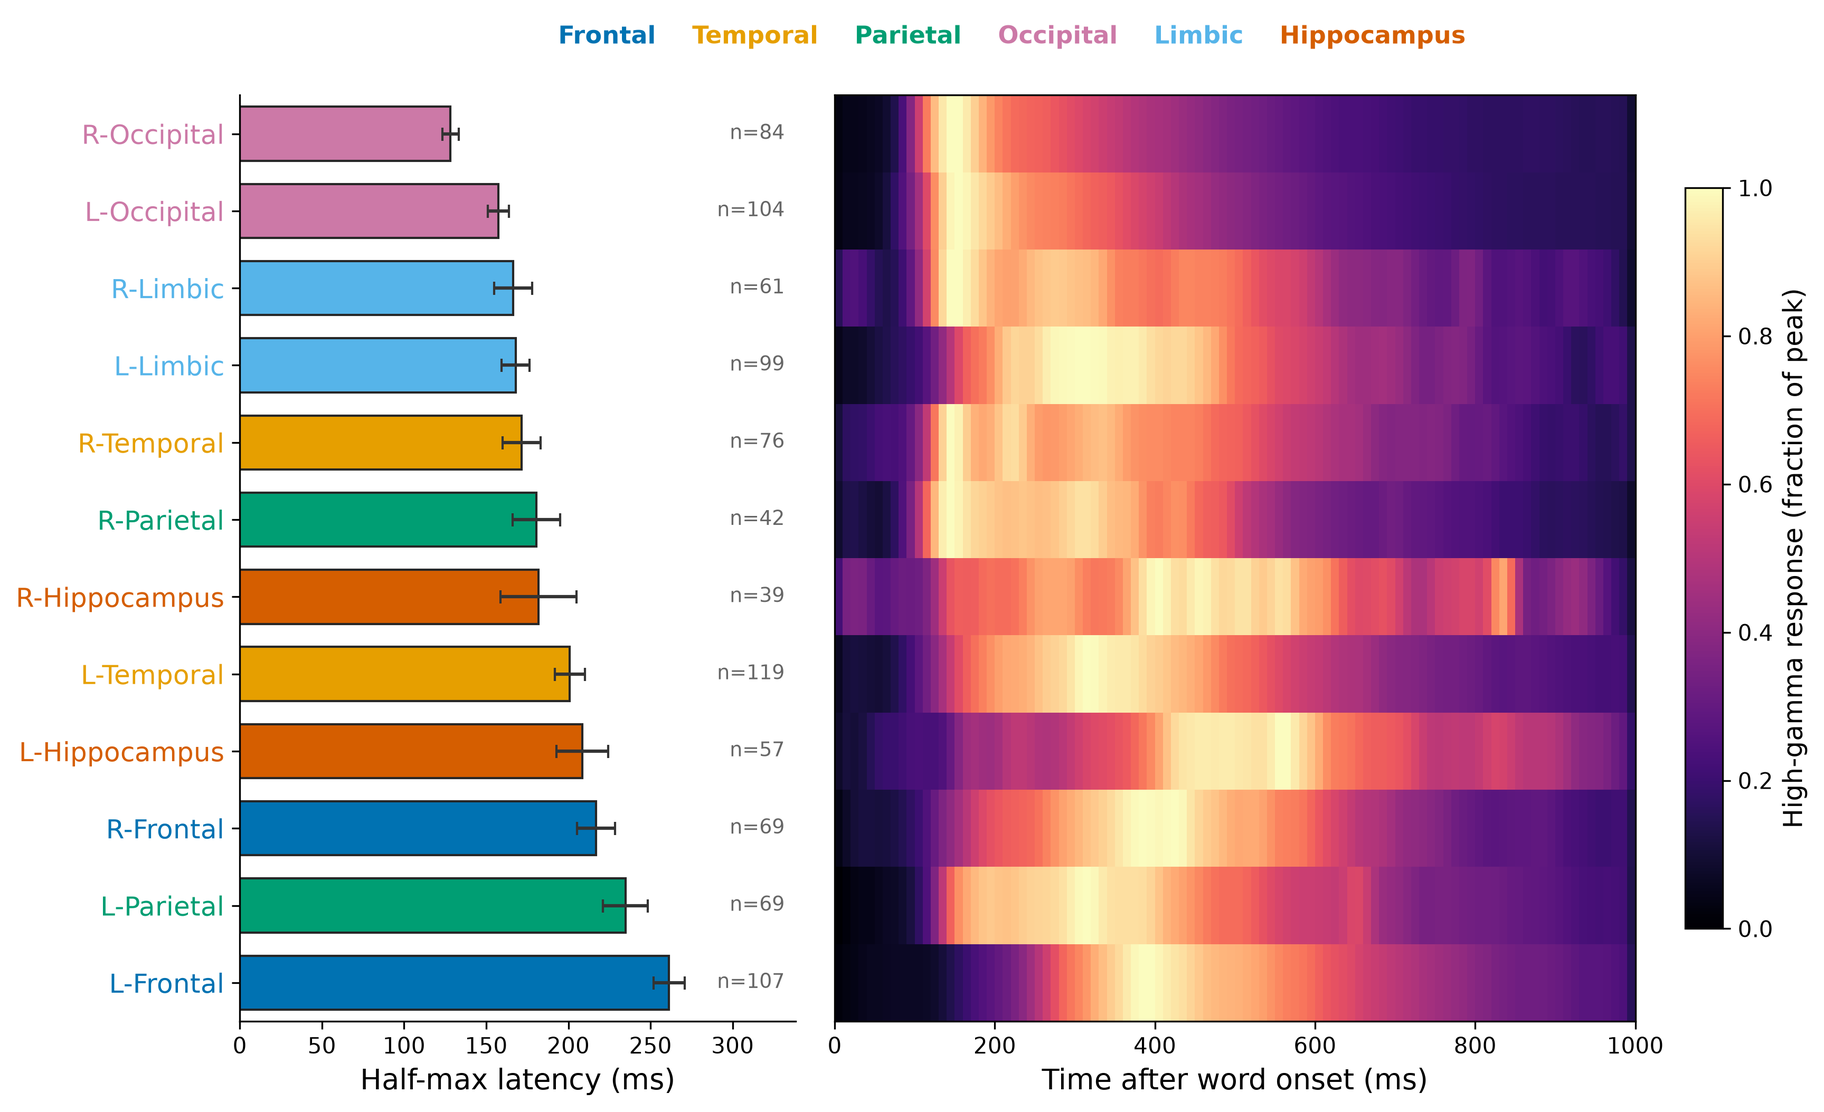
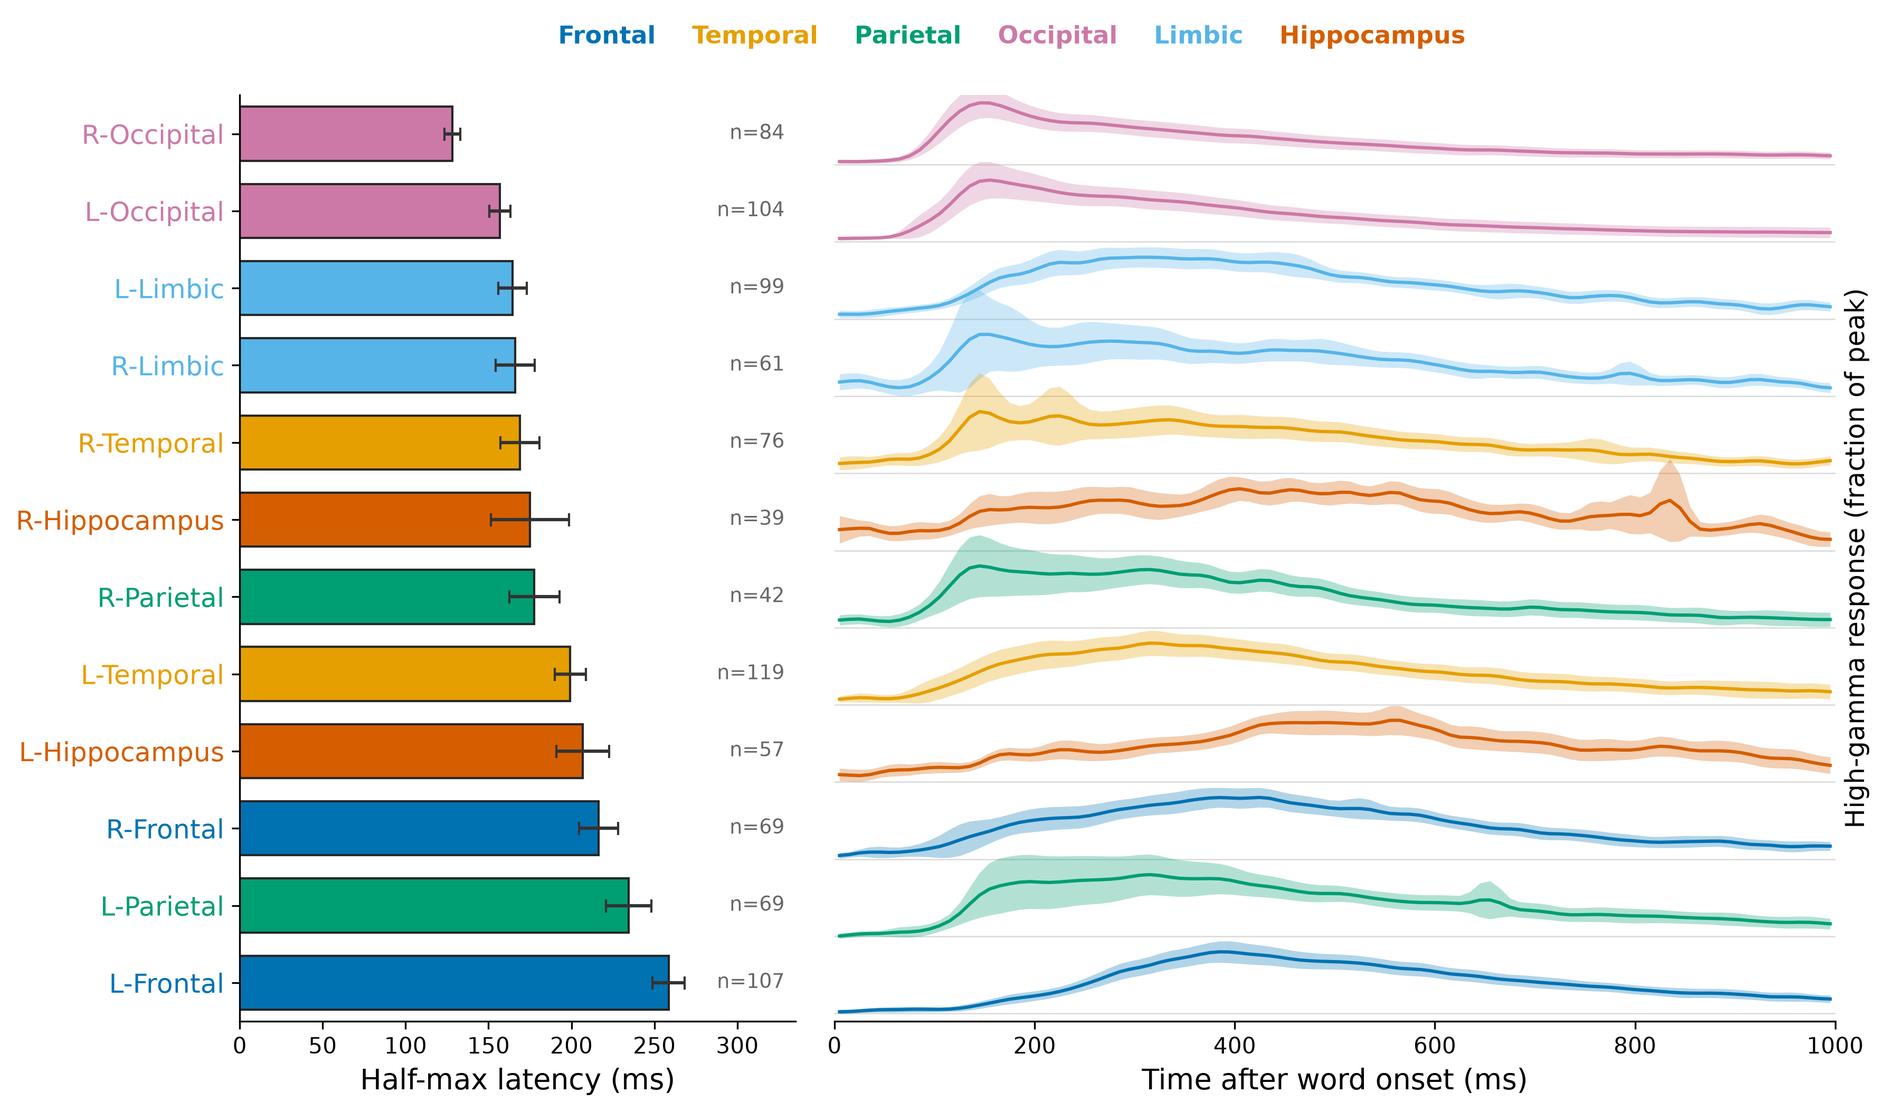
Plot layout changes

diff --git a/plot_spectrum.py b/plot_spectrum.py
@@ -2,8 +2,12 @@
 
 Per electrode the Cohen's d of multitaper power in 10 log-spaced bins (5-100 Hz,
 48-52 / 58-62 Hz left out; compute.py); sessions averaged per electrode, electrodes
-per subject and ROI; one-sample t vs 0 across subjects per cell, BH-FDR over all
-ROI x bin cells (fc.bin_stats). -> figures/burke_roi_power/power_spectrum_word_on_rois.png
+per subject and ROI; one-sample t vs 0 across subjects per cell. Significance by
+threshold-free cluster enhancement along frequency (TFCE, E=0.5, H=2) with
+sign-flip permutations of whole subjects and max-statistic family-wise correction
+over all ROI x bin cells (as Rao et al. 2025 / Ezzyat et al. 2017; rows are not
+adjacent). Outlines mark runs of cells with p_FWE < .05.
+-> figures/burke_roi_power/power_spectrum_word_on_rois.png
 
     python plot_spectrum.py [--simulation-tag TAG]
 """
@@ -35,13 +39,81 @@ def spectrum_table(save_root: str, lobe_of: dict, n_sessions=None) -> pd.DataFra
     return pd.DataFrame(rows, columns=["sub", "label", "roi", "fine", "bin", "d"])
 
 
-def bin_t(d: pd.DataFrame, col: str, min_electrodes: int) -> pd.DataFrame:
-    """sessions -> electrode, electrodes -> subject x `col` region; t per region x bin (fc.bin_stats)."""
+def subject_table(d: pd.DataFrame, col: str, min_electrodes: int) -> pd.DataFrame:
+    """sessions -> electrode, electrodes -> subject x `col` region x bin mean d."""
     x = d.dropna(subset=[col]).groupby(["sub", "label", col, "bin"], as_index=False)["d"].mean()
     g = x.groupby(["sub", col, "bin"]).agg(d=("d", "mean"), n=("label", "nunique")).reset_index()
     g = g[g["n"] >= min_electrodes].rename(columns={col: "roi"})
     g["freq_hz"] = CENTRES[g["bin"]]
-    return fc.bin_stats(g, "freq_hz", "d")
+    return g
+
+
+def bin_t(d: pd.DataFrame, col: str, min_electrodes: int) -> pd.DataFrame:
+    """t per region x bin, BH-FDR over all cells (fc.bin_stats)."""
+    return fc.bin_stats(subject_table(d, col, min_electrodes), "freq_hz", "d")
+
+
+def nan_t(Y: np.ndarray) -> np.ndarray:
+    """One-sample t over subjects (axis 0), ignoring NaN; NaN where < MIN_SUBJECTS_ROI subjects."""
+    n = np.isfinite(Y).sum(0)
+    with np.errstate(invalid="ignore", divide="ignore"):
+        t = np.nanmean(Y, 0) / (np.nanstd(Y, 0, ddof=1) / np.sqrt(n))
+    return np.where(n >= fc.MIN_SUBJECTS_ROI, t, np.nan)
+
+
+def tfce_rows(T: np.ndarray, E: float = 0.5, H: float = 2.0, dh: float = 0.1) -> np.ndarray:
+    """TFCE along the last axis (frequency) of each row, positive and negative separately:
+    sum over thresholds h of extent(h)^E * h^H * dh, extent = contiguous run length."""
+    out = np.zeros_like(T)
+    for sign in (1, -1):
+        X = np.nan_to_num(sign * T, nan=0.0)
+        for h in np.arange(dh, X.max() + dh, dh) if X.max() > 0 else []:
+            above = X >= h
+            for r in range(X.shape[0]):
+                j = 0
+                while j < X.shape[1]:
+                    if above[r, j]:
+                        k = j
+                        while k < X.shape[1] and above[r, k]:
+                            k += 1
+                        out[r, j:k] += sign * (k - j) ** E * h ** H * dh
+                        j = k
+                    else:
+                        j += 1
+    return out
+
+
+def tfce_test(g: pd.DataFrame, rows: list, n_perm: int = 1000, seed: int = 0):
+    """(t map, TFCE map, family-wise p map) over rows x bins; sign-flip permutation of whole
+    subjects (each subject's map x +1/-1), max |TFCE| per permutation."""
+    subs = sorted(g["sub"].unique())
+    Y = np.full((len(subs), len(rows), len(CENTRES)), np.nan)
+    si, ri = {s: i for i, s in enumerate(subs)}, {r: i for i, r in enumerate(rows)}
+    for s, r, b, v in g[g["roi"].isin(ri)][["sub", "roi", "bin", "d"]].itertuples(index=False):
+        Y[si[s], ri[r], b] = v
+    T = nan_t(Y)
+    obs = tfce_rows(T)
+    rng = np.random.default_rng(seed)
+    null = np.array([np.nanmax(np.abs(tfce_rows(nan_t(Y * rng.choice([-1.0, 1.0], len(subs))[:, None, None]))))
+                     for _ in range(n_perm)])
+    p = (1 + (null[None, None, :] >= np.abs(obs)[..., None]).sum(-1)) / (n_perm + 1)
+    return T, obs, np.where(np.isfinite(T), p, np.nan)
+
+
+def outline(ax, sig: np.ndarray) -> None:
+    """Rectangle around each row's run of contiguous significant cells."""
+    from matplotlib.patches import Rectangle
+    for i, row in enumerate(sig):
+        j = 0
+        while j < len(row):
+            if row[j]:
+                k = j
+                while k < len(row) and row[k]:
+                    k += 1
+                ax.add_patch(Rectangle((j - 0.5, i - 0.5), k - j, 1, fill=False, lw=2.2, ec="black"))
+                j = k
+            else:
+                j += 1
 
 
 def t_label() -> str:
@@ -51,20 +123,22 @@ def t_label() -> str:
 
 def main() -> None:
     args, save_root = fc.plot_args(__doc__, join("figures", "burke_roi_power"))
-    st = bin_t(spectrum_table(save_root, fc.load_burke_maps(), args.n_sessions), "roi", args.min_electrodes)
+    g = subject_table(spectrum_table(save_root, fc.load_burke_maps(), args.n_sessions), "roi", args.min_electrodes)
+    rows = [f"{h}-{lobe}" for lobe in fc.LOBES for h in "LR"]   # left / right of each region together
+    T, tfce, p = tfce_test(g, rows)
     os.makedirs(args.out_dir, exist_ok=True)
     stem = join(args.out_dir, f"power_spectrum_{BEH}_rois")
-    st.to_csv(f"{stem}_stats.csv", index=False)
-    T = st.pivot(index="roi", columns="freq_hz", values="t").reindex(fc.ROI_ORDER)
-    Q = st.pivot(index="roi", columns="freq_hz", values="q").reindex(fc.ROI_ORDER)
-    v = float(np.nanmax(np.abs(T.to_numpy()))) or 1.0
+    st = fc.bin_stats(g, "freq_hz", "d")
+    tf = pd.DataFrame([(r, CENTRES[b], tfce[i, b], p[i, b]) for i, r in enumerate(rows) for b in range(len(CENTRES))],
+                      columns=["roi", "freq_hz", "tfce", "p_fwe_tfce"])
+    st.merge(tf, on=["roi", "freq_hz"], how="left").to_csv(f"{stem}_stats.csv", index=False)
+    print(f"[tfce] {int(np.nansum(p < 0.05))} of {int(np.isfinite(p).sum())} cells p_FWE < .05")
+    v = float(np.nanmax(np.abs(T))) or 1.0
     fig, ax = plt.subplots(figsize=(11, 6.5))
-    im = ax.imshow(T.to_numpy(), cmap="RdBu_r", vmin=-v, vmax=v, aspect="auto")
-    for (i, j), q in np.ndenumerate(Q.to_numpy()):
-        if fc.stars(q):
-            ax.text(j, i, fc.stars(q), ha="center", va="center", fontsize=12)
-    ax.set_xticks(range(len(T.columns)), [f"{x:.0f}" for x in T.columns], fontsize=13)
-    ax.set_yticks(range(len(T.index)), [fc.pretty_roi(x) for x in T.index], fontsize=13)
+    im = ax.imshow(T, cmap="RdBu_r", vmin=-v, vmax=v, aspect="auto")
+    outline(ax, p < 0.05)
+    ax.set_xticks(range(len(CENTRES)), [f"{x:.0f}" for x in CENTRES], fontsize=13)
+    ax.set_yticks(range(len(rows)), [fc.pretty_roi(x) for x in rows], fontsize=13)
     ax.set_xlabel("Frequency (Hz)", fontsize=14)
     fig.colorbar(im, ax=ax).set_label(t_label(), fontsize=14)
     fig.tight_layout()

diff --git a/plot_case_studies.py b/plot_case_studies.py
@@ -1,11 +1,15 @@
-"""plot_case_studies.py -- t of word on vs off power vs frequency for chosen anatomical regions.
+"""plot_case_studies.py -- t of word on vs off power vs frequency for anatomical
+subregions, hemispheres pooled, all in one plot.
 
-One panel per region (hemispheres as separate lines), from the same per-electrode
-spectrum d as plot_spectrum.py; BH-FDR over all region x bin cells of the figure.
-Default regions: fusiform gyrus and lateral occipital cortex.
+Default: the 4 occipital subregions (Burke occipital ROI) with the most subjects
+(hemispheres pooled, >= MIN_SUBJECTS_ROI). Per-electrode spectrum d as
+plot_spectrum.py; a subject's value is the mean over its electrodes in the region,
+both hemispheres. Significance: TFCE along frequency with sign-flip permutations
+and max-statistic correction over all region x bin cells (plot_spectrum.tfce_test);
+filled markers p_FWE < .05.
 -> figures/burke_roi_power/power_spectrum_word_on_<name>.png
 
-    python plot_case_studies.py [--regions "fusiform gyrus" "lateral occipital cortex"] [--name occipital]
+    python plot_case_studies.py [--regions "fusiform gyrus" ...] [--name occipital]
 """
 from __future__ import annotations
 
@@ -13,48 +17,51 @@ import os
 from os.path import join
 
 import matplotlib.pyplot as plt
+import pandas as pd
 
 import fc_comparison_functions as fc
-from plot_spectrum import BEH, CENTRES, bin_t, spectrum_table, t_label
+from plot_spectrum import BEH, CENTRES, spectrum_table, subject_table, t_label, tfce_test
 
 
 def main() -> None:
     args, save_root = fc.plot_args(__doc__, join("figures", "burke_roi_power"), **{
-        "--regions": dict(nargs="+", default=["fusiform gyrus", "lateral occipital cortex"],
-                          help="anatomical labels without hemisphere"),
+        "--regions": dict(nargs="+", default=None,
+                          help="anatomical labels without hemisphere (default: top 4 occipital)"),
         "--name": dict(default="occipital", help="figure name suffix")})
-    d = spectrum_table(save_root, fc.load_burke_maps(), args.n_sessions)
-    split = d["fine"].str.split(" ", n=1)
-    d["region"] = [f"{r[1]}|{r[0]}" if isinstance(r, list) and r[1] in args.regions else None for r in split]
-    st = bin_t(d, "region", args.min_electrodes)
+    d = spectrum_table(save_root, fc.load_burke_maps(), args.n_sessions).dropna(subset=["fine"])
+    d["region"] = d["fine"].str.split(" ", n=1).str[1]          # hemispheres pooled
+    if args.regions is None:
+        occ = d[d["roi"].astype(str).str.endswith("occipital")]
+        n = occ.groupby("region")["sub"].nunique().sort_values(ascending=False)
+        args.regions = list(n[n >= fc.MIN_SUBJECTS_ROI].index[:4])
+    d = d[d["region"].isin(args.regions)]
+    g = subject_table(d, "region", args.min_electrodes)
+    T, _, p = tfce_test(g, args.regions)
+    n_sub = g.groupby("roi")["sub"].nunique()
     os.makedirs(args.out_dir, exist_ok=True)
     stem = join(args.out_dir, f"power_spectrum_{BEH}_{args.name}")
-    st.to_csv(f"{stem}_stats.csv", index=False)
-    panels = [r for r in args.regions if st[st["roi"].str.startswith(r + "|")]["t"].notna().any()]
-    fig, axes = plt.subplots(1, len(panels), figsize=(6.5 * len(panels), 5), sharey=True, squeeze=False)
-    for ax, panel in zip(axes[0], panels):
-        for name, s in st[st["roi"].str.startswith(panel + "|")].groupby("roi"):
-            s = s.sort_values("freq_hz")
-            line, = ax.plot(s["freq_hz"], s["t"], marker="o", lw=2,
-                            label=f"{name.split('|')[1]} (n={int(s['n'].max())})")
-            for x, y, q in zip(s["freq_hz"], s["t"], s["q"]):
-                if fc.stars(q):
-                    ax.annotate(fc.stars(q), (x, y), textcoords="offset points", xytext=(0, 6),
-                                ha="center", fontsize=13, color=line.get_color())
-        ax.axhline(0, color="0.6", lw=0.8)
-        ax.set_xscale("log")
-        ax.set_xticks(CENTRES, [f"{x:.0f}" for x in CENTRES], fontsize=12)
-        ax.minorticks_off()
-        ax.tick_params(axis="y", labelsize=13)
-        ax.set_title(panel[:1].upper() + panel[1:], fontsize=15)
-        ax.set_xlabel("Frequency (Hz)", fontsize=14)
-        ax.legend(fontsize=12, frameon=False)
-    axes[0, 0].set_ylabel(t_label(), fontsize=14)
+    pd.DataFrame([(r, CENTRES[b], T[i, b], p[i, b]) for i, r in enumerate(args.regions) for b in range(len(CENTRES))],
+                 columns=["region", "freq_hz", "t", "p_fwe_tfce"]).to_csv(f"{stem}_stats.csv", index=False)
+    fig, ax = plt.subplots(figsize=(7.5, 5))
+    for i, r in enumerate(args.regions):
+        line, = ax.plot(CENTRES, T[i], lw=2, label=f"{r[:1].upper() + r[1:]} (n={n_sub.get(r, 0)})")
+        sig = p[i] < 0.05
+        ax.plot(CENTRES[~sig], T[i][~sig], "o", ms=6, mfc="white", mec=line.get_color(), mew=1.5)
+        ax.plot(CENTRES[sig], T[i][sig], "o", ms=7, color=line.get_color())
+    ax.axhline(0, color="0.6", lw=0.8)
+    ax.set_xscale("log")
+    ax.set_xticks(CENTRES, [f"{x:.0f}" for x in CENTRES], fontsize=12)
+    ax.minorticks_off()
+    ax.tick_params(axis="y", labelsize=12)
+    ax.set_xlabel("Frequency (Hz)", fontsize=14)
+    ax.set_ylabel(t_label(), fontsize=14)
+    ax.spines[["top", "right"]].set_visible(False)
+    ax.legend(fontsize=11, frameon=False, title="filled: p$_{FWE}$ < .05 (TFCE)", title_fontsize=10)
     fig.tight_layout()
     fig.savefig(f"{stem}.png", dpi=300)
     fig.savefig(f"{stem}.pdf")
     plt.close(fig)
-    print(f"[saved] {stem}.png / .pdf")
+    print(f"[saved] {stem}.png / .pdf  regions: {args.regions}")
 
 
 if __name__ == "__main__":

diff --git a/plot_latency.py b/plot_latency.py
@@ -10,8 +10,8 @@ Reads compute.py's high-gamma power pickles (per-trial sub-band Hilbert envelope
 
 Sessions are averaged per electrode, each subject contributes its median latency
 per region, and regions are compared by the across-subject mean +/- 95% CI (regions
-with >= MIN_SUBJECTS_ROI subjects). Figure: regions ordered by latency, and each
-region's group-mean response (scaled to its peak) over time.
+with >= MIN_SUBJECTS_ROI subjects). Figure: regions ordered by latency (bars), and each
+region's group-mean response over time (curves, each scaled to its peak).
 
     python plot_latency.py [--simulation-tag TAG]
 """
@@ -23,7 +23,7 @@ from os.path import join
 import matplotlib.pyplot as plt
 import numpy as np
 import pandas as pd
-from scipy.stats import ttest_ind
+from scipy.stats import t as tdist, ttest_ind
 from statsmodels.stats.multitest import multipletests
 from tqdm.auto import tqdm
 
@@ -46,7 +46,8 @@ def electrode_rows(p: dict, lobe_of: dict) -> list[tuple]:
     curve = np.nanmean(np.asarray(p["env_hi"], float), axis=0)                 # (C, T)
     curve -= np.nanmean(np.asarray(p["env_lo"], float), axis=(0, 2))[:, None]  # minus word-off mean
     k = max(1, int(round(SMOOTH_MS / step)))
-    curve = np.apply_along_axis(lambda c: np.convolve(c, np.ones(k) / k, mode="same"), 1, curve)
+    pad = np.pad(curve, ((0, 0), (k // 2, k - 1 - k // 2)), mode="edge")   # edge-padded: no dip at the ends
+    curve = np.apply_along_axis(lambda c: np.convolve(c, np.ones(k) / k, mode="valid"), 1, pad)
     times = p["env_hi_t0_ms"] + step * (np.arange(curve.shape[1]) + 0.5)
     win = (times >= PEAK_WIN_MS[0]) & (times < PEAK_WIN_MS[1])
     roi = fc.roi_of_reg_full(p["reg_full"], lobe_of)
@@ -108,10 +109,15 @@ def main() -> None:
     # group-mean response per ROI: electrode curves -> subject mean -> mean over subjects
     cdf = pd.DataFrame(curves)
     cdf[["sub", "roi"]] = [(r[0], g) for r, g in zip(rows, region)]
-    prof = cdf.groupby(["roi", "sub"]).mean().groupby("roi").mean().reindex(shown["roi"])
     shown_t = (times >= 0) & (times < 1000)              # the plotted range
-    prof = prof.loc[:, shown_t]
-    prof = prof.div(prof.max(axis=1), axis=0)
+    subj = cdf.groupby(["roi", "sub"]).mean().loc[:, shown_t]
+    g = subj.groupby("roi")
+    prof = g.mean().reindex(shown["roi"])
+    # pointwise 95% CI across subjects (t-based), descriptive
+    ci = (g.std(ddof=1) / np.sqrt(g.size().to_numpy()[:, None])
+          * tdist.ppf(0.975, g.size().to_numpy()[:, None] - 1)).reindex(shown["roi"])
+    peak = prof.max(axis=1)
+    prof, ci = prof.div(peak, axis=0), ci.div(peak, axis=0)   # scaled to each region's group peak
 
     # bars and heatmap share the rows (and one set of row labels, on the bars)
     fig, (a1, a2) = plt.subplots(1, 2, figsize=(13, 0.45 * len(shown) + 2.2), sharey=True,
@@ -129,11 +135,20 @@ def main() -> None:
     a1.set_xlim(0, xmax)
     a1.set_xlabel("Half-max latency (ms)", fontsize=13)
     a1.spines[["top", "right"]].set_visible(False)
-    im = a2.imshow(prof.to_numpy(), aspect="auto", cmap="magma", vmin=0, vmax=1,
-                   extent=[0, 1000, len(shown) - 0.5, -0.5])
+    # one curve per row (each scaled to its own peak), baseline at the bottom of the row
+    tt = times[shown_t]
+    for i, (r, curve, e) in enumerate(zip(shown["roi"], prof.to_numpy(), ci.to_numpy())):
+        col = fc.LOBE_COLORS.get(lobe[r], "0.5")
+        a2.axhline(i + 0.4, color="0.85", lw=0.6, zorder=0)                     # each row's zero
+        a2.fill_between(tt, i + 0.4 - 0.8 * (curve - e), i + 0.4 - 0.8 * (curve + e),
+                        color=col, alpha=0.3, lw=0)                             # 95% CI
+        a2.plot(tt, i + 0.4 - 0.8 * curve, color=col, lw=1.5)
+    a2.set_xlim(0, 1000)
     a2.tick_params(axis="y", left=False, labelleft=False)
+    a2.spines[["top", "right", "left"]].set_visible(False)
     a2.set_xlabel("Time after word onset (ms)", fontsize=13)
-    fig.colorbar(im, ax=a2, shrink=0.8).set_label("High-gamma response (fraction of peak)", fontsize=12)
+    a2.yaxis.set_label_position("right")
+    a2.set_ylabel("High-gamma response (fraction of peak)", fontsize=12)
     fc.lobe_key(fig, y=0.9)
     fig.tight_layout()
     fig.savefig(f"{stem}.png", dpi=300, bbox_inches="tight")   # keeps the row labels

diff --git a/fc_comparison_functions.py b/fc_comparison_functions.py
@@ -600,32 +600,29 @@ def print_roi_stats(st: pd.DataFrame, title: str) -> None:
 
 # --- ROI figures -------------------------------------------------------------
 def _roi_positions(roi_order: Sequence[str], lobes: Sequence[str]) -> list[float]:
-    """x positions with a gap between the left-hemisphere and right blocks."""
-    return [i + (0.8 if i >= len(lobes) else 0.0) for i in range(len(roi_order))]
+    """x positions: each region's left and right ROI side by side, regions spaced apart."""
+    side = {"L": 0.0, "R": 1.0}
+    return [2.6 * list(lobes).index(r.split("-", 1)[1]) + side[r[0]] for r in roi_order]
 
 
 def _roi_axis_furniture(
     ax: Any, pos: Sequence[float], roi_order: Sequence[str],
     lobes: Sequence[str],
 ) -> None:
-    """Shared axis dress: 0 line, hemisphere divider, tick labels, LEFT/RIGHT."""
+    """Shared axis dress: 0 line, L / R tick labels, region names (lobe colour) under each pair."""
     ax.axhline(0, color="0.7", lw=0.9, zorder=0)
-    ax.axvline(len(lobes) - 0.1, color="0.85", lw=1.0, zorder=0)
-    ax.set_xlim(-0.7, len(roi_order) + 0.5)
+    ax.set_xlim(min(pos) - 0.7, max(pos) + 0.7)
     ax.set_xticks(list(pos))
-    ax.set_xticklabels([r.split("-", 1)[1] for r in roi_order], rotation=35,
-                       ha="right", fontsize=9)
-    for lab, r in zip(ax.get_xticklabels(), roi_order):   # lobe names double as the colour key
-        lab.set_color(LOBE_COLORS.get(r.split("-", 1)[1], "k"))
-        lab.set_fontweight("bold")
+    ax.set_xticklabels([r[0] for r in roi_order], fontsize=9, color="0.35")
+    for lobe in lobes:
+        xs = [x for x, r in zip(pos, roi_order) if r.split("-", 1)[1] == lobe]
+        if xs:
+            ax.annotate(lobe, (float(np.mean(xs)), 0), xycoords=("data", "axes fraction"),
+                        xytext=(0, -20), textcoords="offset points", ha="center", va="top",
+                        fontsize=10, fontweight="bold", color=LOBE_COLORS.get(lobe, "k"))
     ax.set_axisbelow(True)
-    for s in ("top", "right"):
-        ax.spines[s].set_visible(False)
-    for name, sl in (("LEFT", slice(None, len(lobes))),
-                     ("RIGHT", slice(len(lobes), None))):
-        ax.annotate(name, (float(np.mean(pos[sl])), 1.02),
-                    xycoords=("data", "axes fraction"), ha="center",
-                    fontsize=9, color="0.35", fontweight="bold")
+    for sp in ("top", "right"):
+        ax.spines[sp].set_visible(False)
 
 
 def roi_panel(

diff --git a/paper/draft.md b/paper/draft.md
@@ -63,13 +63,13 @@ Values from the 2026-10-06/08 runs (1009 sessions); **(verify)** = check before 
 - Frontal: theta/low-alpha increase (t up to 11) with beta decrease (t to −13.5).
 - Occipital: alpha–beta decrease (10.6 Hz t ≈ −8), broadband increase ≥ 35 Hz (t up to 8.6).
 - Limbic / hippocampus: mild alpha decrease, gamma increase.
-- Case studies: fusiform and lateral occipital cortex, L/R.
+- Occipital subregions (hemispheres pooled; the 4 with most subjects): fusiform (199), lateral occipital (86), lingual (77), cuneus (32). All: alpha/beta decrease and gamma increase (≥35–47 Hz); fusiform strongest (t ≈ −7.5 at 11 Hz, +8.9 at 64 Hz); lateral occipital also a 6 Hz increase; cuneus weakest (gamma only). TFCE, family-wise p < .05.
 
 ### 2. Order of activation
 ![Latency, ROIs](img/fig4a_latency.png)
 ![Latency, subregions](img/fig4b_latency_fine.png)
-- Posterior → anterior: R occipital 130 ms, L occipital 157 → limbic, R temporal (~167–171) → R parietal, R hippocampus (~180) → L temporal 201, L hippocampus 212, R frontal 215 → L parietal 235, L frontal 261 ms.
-- Subregions: lateral occipital 124 → lingual 151, fusiform 157 → parahippocampal 170, amygdala 171 → … temporal gyri ~191–199, hippocampus 197 → frontal gyri 219–237 → orbitofrontal 301 ms.
+- Posterior → anterior: R occipital 128 ms, L occipital 157 → limbic, R temporal (~164–169) → R hippocampus, R parietal (~175–178) → L temporal 199, L hippocampus 207, R frontal 216 → L parietal 235, L frontal 259 ms.
+- Subregions: lateral occipital 122 → lingual 150, fusiform 157 → parahippocampal 167, amygdala 170, insula 174 → superior parietal 188, temporal gyri ~189–194, hippocampus 192 → supramarginal 214, frontal gyri 215–237 → orbitofrontal 300 ms.
 - Early regions: sharp peak ~150 ms; hippocampus / insula / frontal: broad peaks ~350–550 ms.
 
 ### 3. Synchrony
